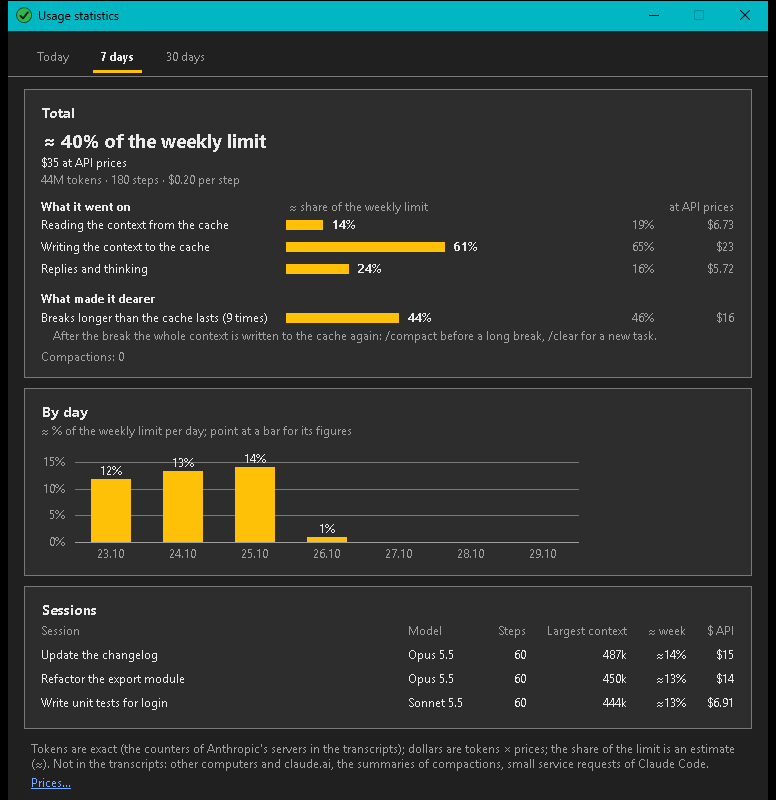
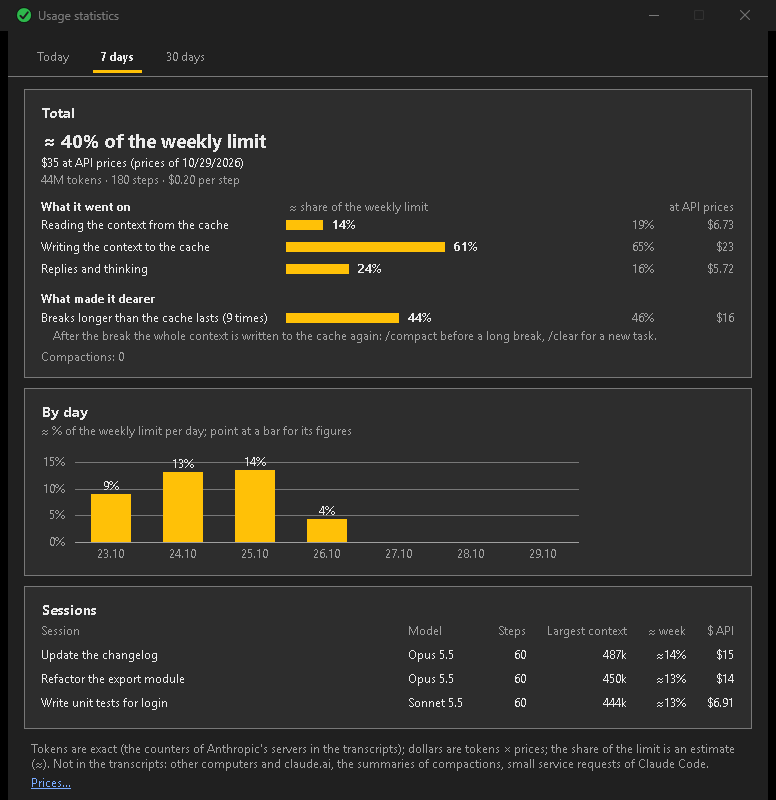
Prices: off by default, not taken on trust, dated
- The daily load from LiteLLM is off until switched on: the program does not
  go online by itself.
- A price missing from LiteLLM's file keeps the known one (reading the cache
  is less than the default tenth on newer models); a price more than five
  times off the last LiteLLM or built-in one, or zero, is left out and logged.
- Once the file came, the next daily try is a day later even if it held
  nothing to use; a failed network is tried again an hour later.
- The built-in prices are those of today, with Mythos 5 and Mythos Preview.
- The menu block and every period of the statistics say how current the
  prices are: the day of the last load, or the day the built-in ones were
  checked.

diff --git a/docs/index.html b/docs/index.html
@@ -151,7 +151,7 @@
         <li><strong>Estimated</strong> in between (marked ≈), because Claude Code gives the current figures only on <code>/usage</code>: the app adds what your sessions used since, each model weighed by your own past figures. So far that stayed within one or two percentage points; every <code>/usage</code> puts it right again.</li>
         <li><strong>Exact all along</strong>, if you switch it on: whenever the estimate may be more than 1% off while you work, the app runs Claude Code's own <code>/usage</code> in the background: more often near the end of a limit, and more often by itself when the estimate starts to miss (a model or an effort it has not learnt yet), never more often than every 5 minutes. It asks no model, so it uses no limit.</li>
         <li>The same figures on the second line of the icon tooltip and at the end of every push; optionally a notice, here and on the phone, every N percent, when a limit runs out, when it is back and when a used window ends.</li>
-        <li>Under them, the tokens used today and in 30 days and what they would cost at API prices, every kind of token at its own price: on a subscription, to see what the same work would cost by the token; with an API key, close to the bill. The prices are built in and updated once a day from the open price file of <a href="https://github.com/BerriAI/litellm/blob/main/model_prices_and_context_window.json">LiteLLM</a>, a community project on GitHub; the settings show where each price came from and when they were last loaded.</li>
+        <li>Under them, the tokens used today and in 30 days and what they would cost at API prices, every kind of token at its own price: on a subscription, to see what the same work would cost by the token; with an API key, close to the bill. The prices are built in, with their date shown, and can be updated from the open price file of <a href="https://github.com/BerriAI/litellm/blob/main/model_prices_and_context_window.json">LiteLLM</a>, a community project on GitHub: on request, or once a day if you switch it on.</li>
         <li><strong>Statistics</strong> in a window of its own: what the use came to, what it went on (reading the cache, writing it, the replies), what made it dearer (a large context, breaks longer than the cache lasts, with what helps), by session and by day.</li>
       </ul>
       <p class="small">The app itself never contacts Anthropic and never touches your Claude sign-in: in the background it only starts Claude Code's own command. Use on other devices shows up at the next <code>/usage</code>. A sign-in without a subscription (an API key) has no such limits, and the app shows none.</p>
@@ -166,7 +166,7 @@
   <p class="small">Requires Windows 10 or 11 (the .NET Framework it needs is part of Windows). The file is not code-signed, so Windows SmartScreen may warn on the first start: <strong>More info → Run anyway</strong>. Each release is built by GitHub Actions from the tagged source, reproducibly, and lists its SHA-256 checksum in <code>SHA256SUMS.txt</code>.</p>
 
   <h2>Privacy</h2>
-  <p>The program collects nothing and sends nothing about you: no telemetry, and no update checks unless you switch them on (once a day, one anonymous request to GitHub for the latest release). For the prices of the models it makes one anonymous request a day to GitHub for LiteLLM's price file (it can be switched off). Otherwise it uses the network only if you set up phone notifications, and then only to the ntfy server you chose. For the usage limits it reads the session transcripts and the figures Claude Code keeps on your computer; it never contacts Anthropic itself and never touches your Claude sign-in (if you switch on refining the limits, it starts Claude Code's own <code>/usage</code>, and Claude Code asks Anthropic, as when you type it). This page has no counters or trackers either.</p>
+  <p>The program collects nothing and sends nothing about you: no telemetry, and no update checks unless you switch them on (once a day, one anonymous request to GitHub for the latest release). Nor does it load the prices of the models unless you ask (one anonymous request to GitHub for LiteLLM's price file, on a button or once a day if switched on). Otherwise it uses the network only if you set up phone notifications, and then only to the ntfy server you chose. For the usage limits it reads the session transcripts and the figures Claude Code keeps on your computer; it never contacts Anthropic itself and never touches your Claude sign-in (if you switch on refining the limits, it starts Claude Code's own <code>/usage</code>, and Claude Code asks Anthropic, as when you type it). This page has no counters or trackers either.</p>
 
   <footer>
     <p>Claude Code Traffic Light is an independent open-source project, not affiliated with Anthropic. Claude and Claude Code are products of Anthropic.<br>

diff --git a/src/ApiPrices.cs b/src/ApiPrices.cs
@@ -46,11 +46,16 @@ namespace Semaphore
         // Each web search Claude makes is $10 per thousand on top of the tokens.
         internal const double WebSearch = 0.01;
 
+        // The day the built-in prices were checked against Anthropic's price list (and LiteLLM's file).
+        internal static readonly DateTime BuiltInDate = new DateTime(2026, 10, 29);
+
         static readonly Dictionary<string, Price> BuiltIn = new Dictionary<string, Price>(StringComparer.OrdinalIgnoreCase)
         {
             { "claude-fable-5-1", new Price { Input = 10, Output = 50, CacheRead = 0.25 } },
             { "claude-mythos-5-1", new Price { Input = 10, Output = 50, CacheRead = 0.25 } },
             { "claude-fable-5", new Price { Input = 10, Output = 50 } },
+            { "claude-mythos-5", new Price { Input = 10, Output = 50 } },
+            { "claude-mythos-preview", new Price { Input = 10, Output = 50 } },
             { "claude-opus-5-5", new Price { Input = 4, Output = 20, CacheRead = 0.20 } },
             { "claude-opus-5", new Price { Input = 5, Output = 25 } },
             { "claude-opus-4-8", new Price { Input = 5, Output = 25 } },
@@ -105,14 +110,20 @@ namespace Semaphore
             lock (found)
             {
                 if (found.TryGetValue(model, out p)) return p;
-                if (!t.TryGetValue(model, out p))
-                {
-                    string key = t.Keys.Where(k => model.StartsWith(k + "-", StringComparison.OrdinalIgnoreCase)).OrderByDescending(k => k.Length).FirstOrDefault();
-                    p = key != null ? t[key] : null;
-                }
+                p = Lookup(t, model);
                 found[model] = p;
                 return p;
             }
+        }
+
+        // The price of a model in a table: its own, or that of the longest name it extends ("claude-haiku-4-5" for
+        // "claude-haiku-4-5-20251001").
+        static Price Lookup(Dictionary<string, Price> t, string model)
+        {
+            Price p;
+            if (t.TryGetValue(model, out p)) return p;
+            string key = t.Keys.Where(k => model.StartsWith(k + "-", StringComparison.OrdinalIgnoreCase)).OrderByDescending(k => k.Length).FirstOrDefault();
+            return key != null ? t[key] : null;
         }
 
         // The price found for each model name, until the prices change.
@@ -179,17 +190,47 @@ namespace Semaphore
 
         // The prices loaded from LiteLLM replace those kept so far, typed ones too: LiteLLM goes first, so that the
         // prices stay current without anyone looking after them. A typed price stays only for a model LiteLLM lacks.
-        internal static void Apply(Dictionary<string, Price> loaded, DateTime when)
+        // The file is kept by a community, so it is not taken on trust: a price missing from it keeps the one known,
+        // and a price far from the one known (a slip of a digit) is left out. Returns the models left out.
+        internal static List<string> Apply(Dictionary<string, Price> loaded, DateTime when)
         {
             var kept = Kept();
+            var skipped = new List<string>();
             string date = when.ToString("yyyy-MM-dd HH:mm", CultureInfo.InvariantCulture);
             foreach (var kv in loaded)
             {
-                kv.Value.Source = FromLiteLlm;
-                kv.Value.Date = date;
-                kept[kv.Key] = kv.Value;
+                Price known = Known(kept, kv.Key), p = kv.Value;
+                if (known != null && (Far(p.Input, known.Input) || Far(p.Output, known.Output)))
+                {
+                    skipped.Add(kv.Key);
+                    Log.Write(string.Format(CultureInfo.InvariantCulture, "LiteLLM price of {0} left out: {1}/{2} against {3}/{4} known",
+                        kv.Key, p.Input, p.Output, known.Input, known.Output));
+                    continue;
+                }
+                // Reading the cache is a tenth of the input by default, but less for newer models: a file without the
+                // figure keeps the known one.
+                if (!p.CacheRead.HasValue && known != null) p.CacheRead = known.CacheRead;
+                p.Source = FromLiteLlm;
+                p.Date = date;
+                kept[kv.Key] = p;
             }
             Keep(kept);
+            return skipped;
+        }
+
+        // The price to check a loaded one against: the last one from LiteLLM, or else the built-in one; a typed price
+        // is no measure, it may be anything.
+        static Price Known(Dictionary<string, Price> kept, string model)
+        {
+            Price p;
+            if (kept.TryGetValue(model, out p) && p.Source == FromLiteLlm) return p;
+            return Lookup(BuiltIn, model);
+        }
+
+        // More than five times up or down: no price change of a model was ever like that.
+        static bool Far(double a, double b)
+        {
+            return a <= 0 || b <= 0 || a > 5 * b || b > 5 * a;
         }
 
         // One difference between the prices now and those loaded: a new model (Old null) or a changed price.
@@ -233,7 +274,7 @@ namespace Semaphore
                 object provider;
                 if (!m.TryGetValue("litellm_provider", out provider) || !"anthropic".Equals(provider)) continue;
                 double? input = PerMillion(m, "input_cost_per_token"), output = PerMillion(m, "output_cost_per_token");
-                if (!input.HasValue || !output.HasValue || input <= 0) continue;
+                if (!input.HasValue || !output.HasValue || input <= 0 || output <= 0) continue;
                 var p = new Price { Input = input.Value, Output = output.Value, CacheRead = PerMillion(m, "cache_read_input_token_cost") };
                 // A higher price from a long prompt on: "input_cost_per_token_above_100k_tokens".
                 foreach (string key in m.Keys)
@@ -257,13 +298,15 @@ namespace Semaphore
             catch (Exception) { return null; }
         }
 
-        // Loads the file (on a pool thread; done is called there): the prices, or the error in words for the user.
-        internal static void LoadLiteLlm(Action<Dictionary<string, Price>, string> done)
+        // Loads the file (on a pool thread; done is called there): the prices, or the error in words for the user,
+        // and whether the file came at all (an error after that is in the file, not in the network).
+        internal static void LoadLiteLlm(Action<Dictionary<string, Price>, string, bool> done)
         {
             System.Threading.ThreadPool.QueueUserWorkItem(_ =>
             {
                 Dictionary<string, Price> prices = null;
                 string error = null;
+                bool fetched = false;
                 try
                 {
                     try { System.Net.ServicePointManager.SecurityProtocol |= System.Net.SecurityProtocolType.Tls12; }
@@ -276,12 +319,13 @@ namespace Semaphore
                     using (var resp = req.GetResponse())
                     using (var reader = new StreamReader(resp.GetResponseStream(), Encoding.UTF8))
                         text = reader.ReadToEnd();
+                    fetched = true;
                     prices = ParseLiteLlm(text);
                     if (prices.Count == 0) { error = Loc.T("prices.load.empty"); prices = null; }
                 }
                 catch (Exception ex) { error = ex.Message; }
                 Log.Write(error == null ? "Prices from LiteLLM: " + prices.Count + " Claude models" : "Prices from LiteLLM could not be loaded: " + error);
-                done(prices, error);
+                done(prices, error, fetched);
             });
         }
 

diff --git a/src/TrayApp.Updates.cs b/src/TrayApp.Updates.cs
@@ -1,4 +1,5 @@
 using System;
+using System.Collections.Generic;
 using System.Drawing;
 using System.Windows.Forms;
 
@@ -20,7 +21,7 @@ namespace Semaphore
                 updateTimer.Interval = 60 * 60 * 1000;
                 if (AppPaths.IsSandbox) return;
                 // The prices of the models from LiteLLM, on the same daily round.
-                if (Config.PricesAuto && DateTime.Now.Ticks - Config.PricesLoadedTicks >= TimeSpan.FromHours(23).Ticks)
+                if (Config.PricesAuto && DateTime.Now.Ticks - Config.PricesTriedTicks >= TimeSpan.FromHours(23).Ticks)
                     LoadPricesNow(null);
                 if (!Config.CheckUpdates) return;
                 if (DateTime.Now.Ticks - Config.UpdateCheckedTicks < TimeSpan.FromHours(23).Ticks) return;
@@ -33,19 +34,33 @@ namespace Semaphore
         // that changed, or the error, on the UI thread.
         public void LoadPricesNow(Action<int, string> done)
         {
-            ApiPrices.LoadLiteLlm((prices, error) => ui.Post(_ =>
+            ApiPrices.LoadLiteLlm((prices, error, fetched) => ui.Post(_ =>
             {
                 int changed = 0;
+                // The next try a day later once the file came, even if it held nothing to use (no reason to fetch
+                // its 3 MB again within the day); an hour later when the network failed.
+                Config.PricesTriedTicks = fetched ? DateTime.Now.Ticks : DateTime.Now.AddHours(-22).Ticks;
                 if (error == null)
                 {
                     changed = ApiPrices.Compare(prices).Count;
-                    ApiPrices.Apply(prices, DateTime.Now);
+                    List<string> skipped = ApiPrices.Apply(prices, DateTime.Now);
+                    changed = Math.Max(0, changed - skipped.Count);
                     Config.PricesLoadedTicks = DateTime.Now.Ticks;
-                    Config.Save();
-                    Log.Write("Prices from LiteLLM applied, " + changed + " changed");
+                    Log.Write("Prices from LiteLLM applied, " + changed + " changed" + (skipped.Count > 0 ? ", left out: " + string.Join(", ", skipped) : ""));
                 }
+                Config.Save();
                 if (done != null) done(changed, error);
             }, null));
+        }
+
+        // How current the prices are: the day they last came from LiteLLM, or the day the built-in ones were checked.
+        internal DateTime PricesAsOf
+        {
+            get
+            {
+                DateTime loaded = Config.PricesLoadedTicks > 0 ? new DateTime(Config.PricesLoadedTicks) : DateTime.MinValue;
+                return loaded > ApiPrices.BuiltInDate ? loaded.Date : ApiPrices.BuiltInDate;
+            }
         }
 
         // Also for the About page; onResult runs on the UI thread.

diff --git a/tests/Tests.cs b/tests/Tests.cs
@@ -346,6 +346,17 @@ namespace Semaphore.Tests
             Check("a price typed in stays for a model LiteLLM does not have",
                 ApiPrices.For("claude-opus-7").Input == 7 && ApiPrices.For("claude-opus-7").Source == ApiPrices.FromYou);
             ApiPrices.Clear();
+            // The file is not taken on trust: a missing cache-read price keeps the known one (Opus 5.5 reads at a
+            // twentieth, not the default tenth), a price ten times the known one is left out.
+            var odd = ApiPrices.ParseLiteLlm("{\"claude-opus-5-5\":{\"litellm_provider\":\"anthropic\",\"input_cost_per_token\":4e-06,\"output_cost_per_token\":2e-05},"
+                + "\"claude-sonnet-5-5\":{\"litellm_provider\":\"anthropic\",\"input_cost_per_token\":2e-05,\"output_cost_per_token\":1e-04},"
+                + "\"claude-free\":{\"litellm_provider\":\"anthropic\",\"input_cost_per_token\":1e-06,\"output_cost_per_token\":0}}");
+            List<string> left = ApiPrices.Apply(odd, DateTime.Now);
+            Check("a cache-read price missing from LiteLLM keeps the known one",
+                ApiPrices.For("claude-opus-5-5").Source == ApiPrices.FromLiteLlm && ApiPrices.For("claude-opus-5-5").Reading == 0.2);
+            Check("a LiteLLM price far from the known one is left out, and a free model is no price",
+                left.SequenceEqual(new[] { "claude-sonnet-5-5" }) && ApiPrices.For("claude-sonnet-5-5").Input == 2 && !odd.ContainsKey("claude-free"));
+            ApiPrices.Clear();
             Check("default prices drop what was typed and loaded", !File.Exists(ApiPrices.FilePath) && ApiPrices.For("claude-opus-6") == null
                 && ApiPrices.For("claude-sonnet-5-5").CacheRead == 0.10 && ApiPrices.For("claude-sonnet-5-5").Source == null);
 

diff --git a/src/StatsForm.cs b/src/StatsForm.cs
@@ -357,7 +357,10 @@ namespace Semaphore
                 yy = c.Text(Loc.T("stats.total"), left, yy, inner, Theme.Fore, c.Header) + Ui.S(6);
                 string lead = Limit ? LimitTotal(report.Total.Weeks.Value) : ApiPrices.Dollars(report.Total.Usd, Culture) + " " + Loc.T("stats.at.api");
                 yy = c.Text(lead, left, yy, inner, Theme.Fore, c.Big);
-                if (Limit) yy = c.Text(ApiPrices.Dollars(report.Total.Usd, Culture) + " " + Loc.T("stats.at.api"), left, yy + Ui.S(2), inner, Theme.Fore);
+                // The dollars with how current their prices are, on every period.
+                string asOf = "(" + Loc.T("prices.asof", app.PricesAsOf.ToString("d", Culture)) + ")";
+                if (Limit) yy = c.Text(ApiPrices.Dollars(report.Total.Usd, Culture) + " " + Loc.T("stats.at.api") + " " + asOf, left, yy + Ui.S(2), inner, Theme.Fore);
+                else yy = c.Text(asOf, left, yy + Ui.S(2), inner, Theme.Fore);
                 yy = c.Text(Loc.T("stats.total.line", ApiPrices.Tokens(report.Total.Tokens, Culture), report.Total.Count.ToString("N0", Culture),
                     ApiPrices.Dollars(report.Total.Usd / Math.Max(1, report.Total.Count), Culture)), left, yy + Ui.S(2), inner, Theme.Muted);
                 // What it went on, with the headings of the columns on the same line.

diff --git a/src/Config.cs b/src/Config.cs
@@ -261,10 +261,11 @@ namespace Semaphore
         public long UpdateCheckedTicks { get; set; }
         public string UpdateNotifiedVersion { get; set; }
 
-        // Load the prices of the models from LiteLLM's open price file once a day (on unless switched off: prices that
-        // need looking after would go stale); when they were last loaded.
+        // Load the prices of the models from LiteLLM's open price file once a day (off until switched on: the program
+        // does not go online for that by itself); when they were last loaded, and when that was last tried.
         public bool PricesAuto { get; set; }
         public long PricesLoadedTicks { get; set; }
+        public long PricesTriedTicks { get; set; }
 
         // Ids of sessions whose notifications are switched off.
         public List<string> MutedSessions { get; set; }
@@ -297,7 +298,6 @@ namespace Semaphore
             StaleMinutes = 30;
             LimitsShow = true;
             CostShow = true;
-            PricesAuto = true;
             LimitsInPush = true;
             LimitsEvents = true;
             BackgroundNotifyMinutes = 30;

diff --git a/src/TrayApp.Limits.cs b/src/TrayApp.Limits.cs
@@ -154,7 +154,7 @@ namespace Semaphore
             // The use at API prices is a block of its own below the limits (or alone, for a sign-in by API key): other
             // figures in another unit, with their own title.
             if (!Config.CostShow || s.Month.Tokens <= 0) return;
-            var title = new ToolStripLabel(Loc.T("cost.menu.title"));
+            var title = new ToolStripLabel(Loc.T("cost.menu.title") + " (" + Loc.T("prices.asof", PricesAsOf.ToString("d", Loc.Culture)) + ")");
             title.ForeColor = Theme.Muted;
             items.Add(title);
             CultureInfo c = LimitCulture();

diff --git a/src/SettingsForm.Prices.cs b/src/SettingsForm.Prices.cs
@@ -67,6 +67,8 @@ namespace Semaphore
                 reset.Click += (s, e) =>
                 {
                     ApiPrices.Clear();
+                    cfg.PricesLoadedTicks = 0;
+                    cfg.Save();
                     fill();
                     SetResult(result, Loc.T("prices.reset.done"), Palette.StatusOk);
                 };

diff --git a/README.md b/README.md
@@ -134,7 +134,7 @@ The app itself never contacts Anthropic and never reads or uses your Claude sign
 
 Below the limits the menu also shows, under its own title, how many tokens Claude Code used today and in the last 30 days, and what that would cost at Anthropic's API prices: `Today ≈ $4.29 · 10M tokens` and `30 days ≈ $1,098 · 3.3B tokens`. On a subscription it shows what the same work would cost by the token; with a sign-in by API key, which has no such limits, the block stands alone and comes close to the bill. Every kind of token counts at its own price: input, writing to the prompt cache (for 5 minutes or for an hour), reading from it, and the reply, thinking included; web searches and fast mode too. Most of the tokens are usually reads of the cache: Claude Code sends the whole context with every step. Like the limits, it counts only what the transcripts on this computer show. **Settings → Claude Code → Use at API prices** switches it off and holds the prices.
 
-**The prices.** Those of the current models are built in, taken from Anthropic's price list when the version was made. The same card lists the models of your transcripts with their input, output and cache-read prices in dollars per million tokens, and where each price came from: the program, LiteLLM (with the date) or you. Once a day the program loads the open price file of [LiteLLM](https://github.com/BerriAI/litellm/blob/main/model_prices_and_context_window.json), a community project on GitHub (not Anthropic), and takes the prices of its Claude models, so they stay current without anyone looking after them; the card says when that last happened, and **Update prices from LiteLLM** does it at once. LiteLLM goes first: a price you type stays only for a model LiteLLM does not have. **Settings → Claude Code → Update the prices from LiteLLM once a day** switches the daily load off; **Default prices** drops what was typed or loaded. They can be checked against [Anthropic's price list](https://platform.claude.com/docs/en/about-claude/pricing). A model with no price counts in the tokens only, and a line names it.
+**The prices.** Those of the current models are built in, taken from Anthropic's price list when the version was made. The same card lists the models of your transcripts with their input, output and cache-read prices in dollars per million tokens, and where each price came from: the program, LiteLLM (with the date) or you. **Update prices from LiteLLM** loads the open price file of [LiteLLM](https://github.com/BerriAI/litellm/blob/main/model_prices_and_context_window.json), a community project on GitHub (not Anthropic), and takes the prices of its Claude models; **Update the prices from LiteLLM once a day** (off by default) does it by itself, so they stay current without anyone looking after them. The card says when they were last loaded, and the menu and the statistics say how current the prices are ("prices of 29.10.2026": the day of the last load, or the day the built-in ones were checked). LiteLLM goes first: a price you type stays only for a model LiteLLM does not have. The file is not taken on trust: a price missing from it keeps the one known, and one more than five times off the known one is left out. **Default prices** drops what was typed or loaded. They can be checked against [Anthropic's price list](https://platform.claude.com/docs/en/about-claude/pricing). A model with no price counts in the tokens only, and a line names it.
 
 ### Statistics
 
@@ -165,7 +165,7 @@ To only disconnect from Claude Code and keep the program, use **Disconnect** on 
 
 ## Privacy
 
-The program collects nothing and sends nothing about you or how you use it: no telemetry, and no update checks unless you switch them on (**General → Look for new versions**: once a day, one anonymous request to GitHub for the latest release; **About → Check for new versions** does it once). Besides the price file of the models (below), it uses the network only when you set up the phone: then it sends notifications to the ntfy server you chose (ntfy.sh or your own) and listens there for your answers. What the notifications contain (the name of a session, the text of a request) is described on the Phone and Permission prompts pages. If **Refine the limits by itself** is on, it starts Claude Code's own `/usage` every few minutes while a session works (Claude Code then asks Anthropic, as when you type it). For the prices of the models it makes one anonymous request a day to GitHub for LiteLLM's price file (on until switched off in **Settings → Claude Code**), and one more when you press **Update prices from LiteLLM**. For the usage limits and the context of each session it reads, on this computer only, the session transcripts and the figures Claude Code keeps in `~/.claude.json`; nothing of it is sent anywhere, except the line with the percentages at the end of a push when that is switched on. Everything else stays on the computer: the settings, the log, the requests journal and the figures of the limits and contexts sit next to the program and are removed by **Remove everything**.
+The program collects nothing and sends nothing about you or how you use it: no telemetry, and no update checks unless you switch them on (**General → Look for new versions**: once a day, one anonymous request to GitHub for the latest release; **About → Check for new versions** does it once). Otherwise it uses the network only when you ask for the prices of the models (below) or set up the phone: then it sends notifications to the ntfy server you chose (ntfy.sh or your own) and listens there for your answers. What the notifications contain (the name of a session, the text of a request) is described on the Phone and Permission prompts pages. If **Refine the limits by itself** is on, it starts Claude Code's own `/usage` every few minutes while a session works (Claude Code then asks Anthropic, as when you type it). For the prices of the models it makes one anonymous request to GitHub for LiteLLM's price file when you press **Update prices from LiteLLM**, and once a day if you switch that on in **Settings → Claude Code**. For the usage limits and the context of each session it reads, on this computer only, the session transcripts and the figures Claude Code keeps in `~/.claude.json`; nothing of it is sent anywhere, except the line with the percentages at the end of a push when that is switched on. Everything else stays on the computer: the settings, the log, the requests journal and the figures of the limits and contexts sit next to the program and are removed by **Remove everything**.
 
 ## Verifying the download
 

diff --git a/CHANGELOG.md b/CHANGELOG.md
@@ -5,7 +5,7 @@
 **New**
 - **Use at API prices.** A block of its own under the limits shows the tokens Claude Code used today and in the last 30 days, and what they would cost at Anthropic's API prices: on a subscription, to see what the same work would cost by the token; with a sign-in by API key, which has no limits to show, close to the bill. Every kind of token at its own price (input, writing the cache for 5 minutes or an hour, reading it, the reply with its thinking), web searches and fast mode too. **Settings → Claude Code → Use at API prices** switches it off.
 - **Statistics.** **Statistics…** in the tray menu opens a window with the use of today, 7 or 30 days: the total (on a subscription in the share of the weekly limit, with the dollars at API prices next to it), what it went on (reading the cache, writing it, the replies), what made it dearer (a context over 600k tokens, breaks longer than the cache lasts, each with what helps; the compactions), the sessions and the days.
-- **Prices of the models in the settings**, with where each came from (the program, LiteLLM, you). They are loaded once a day from the open price file of LiteLLM on GitHub (one anonymous request; can be switched off) and at once with **Update prices from LiteLLM**; the card says when they were last loaded. LiteLLM goes first: a price typed in stays only for a model LiteLLM does not have.
+- **Prices of the models in the settings**, with where each came from (the program, LiteLLM, you). **Update prices from LiteLLM** loads them from the open price file of LiteLLM on GitHub (one anonymous request), and once a day if that is switched on (off by default); the card says when they were last loaded, the menu and the statistics how current the prices are. LiteLLM goes first: a price typed in stays only for a model LiteLLM does not have. A price missing from the file keeps the known one, and one more than five times off is left out.
 
 **Fixed**
 - How full the context is could show 100% at half the real size. Newer Claude Code prepares a compaction in the background and notes the size at which it started; that size was taken for the point where Claude Code compacts. Only compactions made at that point count now, and the limits learnt before are learnt again from the transcripts.
